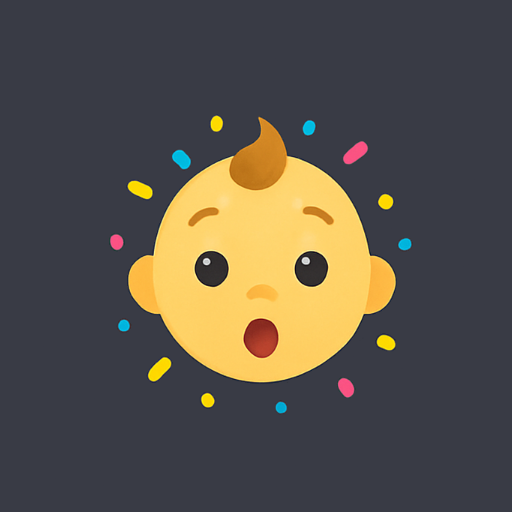
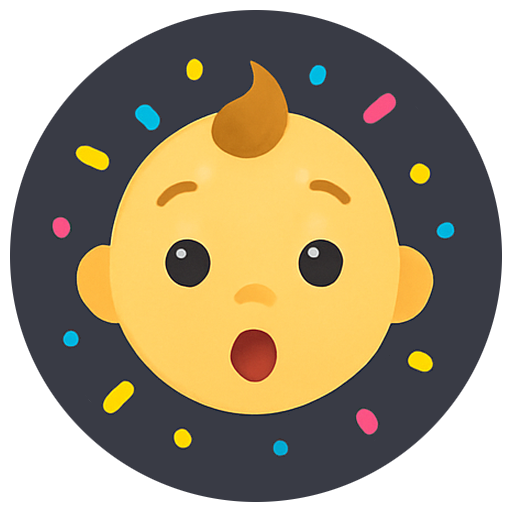
Change circle with transparent background

diff --git a/frontend/src/app.html b/frontend/src/app.html
@@ -5,13 +5,10 @@
 		<link rel="icon" href="%sveltekit.assets%/favicon.png" />
 		<meta name="viewport" content="width=device-width, initial-scale=1" />
 		
-		<!-- Android PWA Icons -->
-		<link rel="icon" type="image/png" sizes="192x192" href="%sveltekit.assets%/android_app_icon_192.png" />
-		<link rel="icon" type="image/png" sizes="512x512" href="%sveltekit.assets%/android_app_icon_512.png" />
-		
+
 		<!-- Android Theme -->
-		<meta name="theme-color" content="#3b82f6" />
-		<meta name="msapplication-TileColor" content="#3b82f6" />
+		<meta name="theme-color" content="#393B45" />
+		<meta name="msapplication-TileColor" content="#393B45" />
 		
 		<!-- Android App Manifest -->
 		<meta name="mobile-web-app-capable" content="yes" />
@@ -20,10 +17,7 @@
 		<meta name="apple-mobile-web-app-title" content="PrénomScope" />
 		
 		<!-- Apple Touch Icons -->
-		<link rel="apple-touch-icon" href="%sveltekit.assets%/android_app_icon_512.png" />
-		<link rel="apple-touch-icon" sizes="152x152" href="%sveltekit.assets%/android_app_icon_512.png" />
-		<link rel="apple-touch-icon" sizes="180x180" href="%sveltekit.assets%/android_app_icon_512.png" />
-		<link rel="apple-touch-icon" sizes="167x167" href="%sveltekit.assets%/android_app_icon_512.png" />
+		<link rel="apple-touch-icon" type="image/png" href="%sveltekit.assets%/android_app_icon_180.png" />
 		
 		<!-- Web App Manifest -->
 		<link rel="manifest" href="%sveltekit.assets%/manifest.json" />
